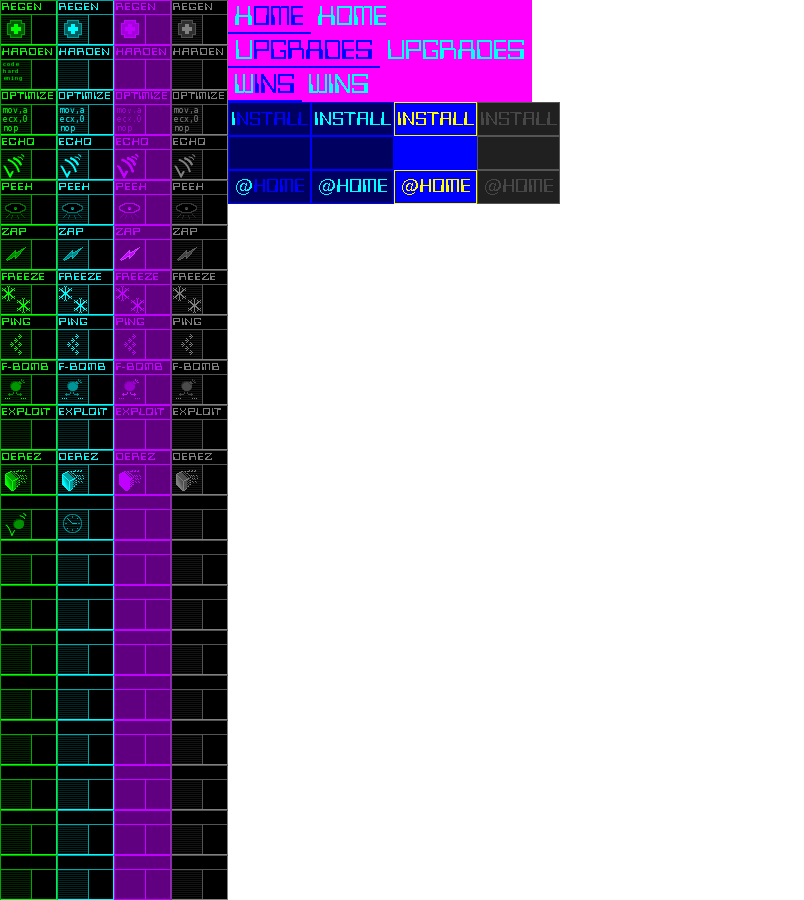
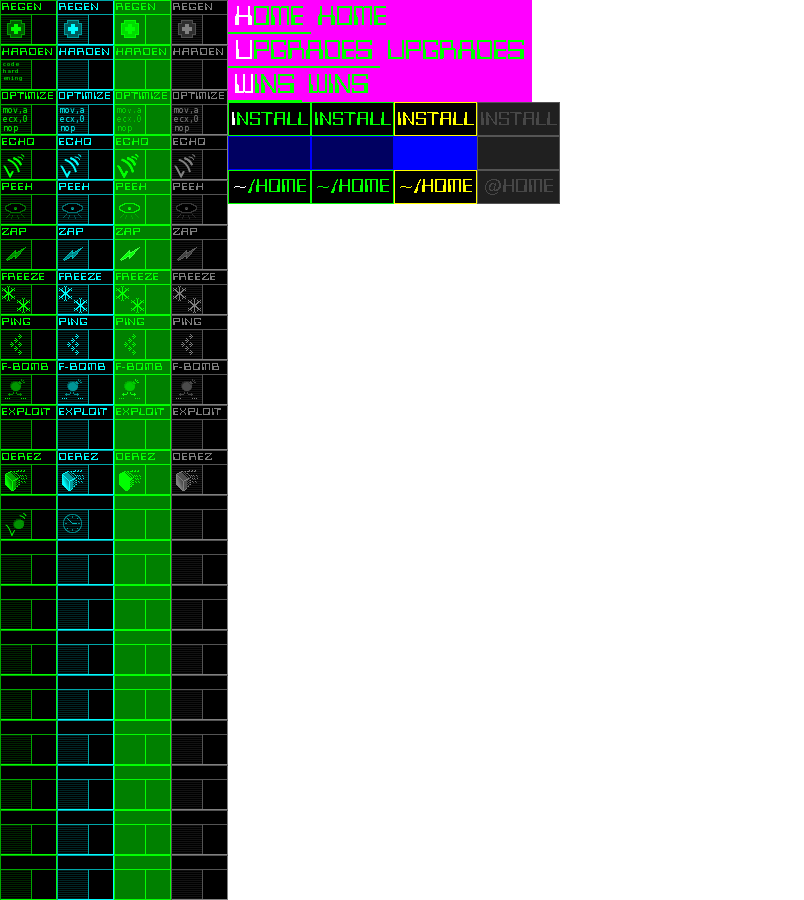
change home button color to green, and make it use the tilde as shortcut key

diff --git a/data/aliveView.py b/data/aliveView.py
@@ -1276,7 +1276,7 @@ class GraphicalView(object):
             rect=BT_HOME_DST,
             image_rect=BT_HOME_SRC,
             code='goto home',
-            hotkey='@',
+            hotkey='~',
             enabled=True,
             border_color=None,
             context=STATE_PLAY
